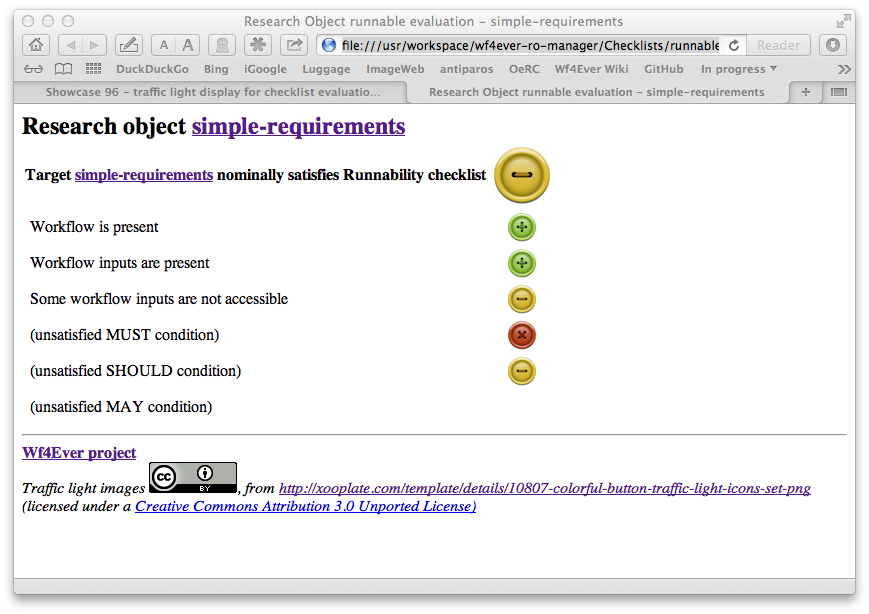
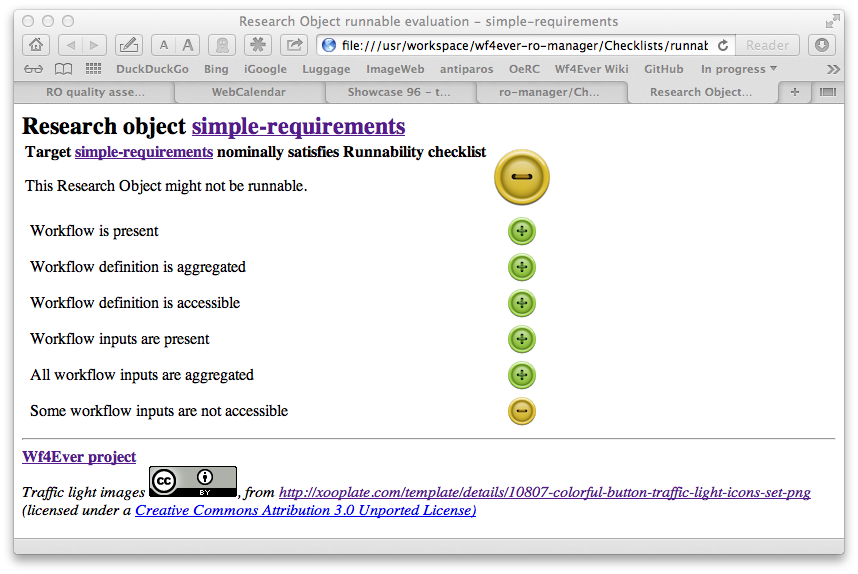
Update mockup data and scripts

Changed region(s): [[0.0, 0.0, 1.0, 0.9477]]

diff --git a/Checklists/runnable-wf-trafficlight/mockup.html b/Checklists/runnable-wf-trafficlight/mockup.html
@@ -31,7 +31,7 @@
       <div class="body">
         <table>
           <tr>
-            <th colspan="2">Target <span class="target"><a href="http://sandbox.wf4ever-project.org/rodl/ROs/simple-requirements/">simple-requirements</a></span> nominally satisfies Runnability checklist</th>
+            <th colspan="2">Target <span class="target"><a href="http://sandbox.wf4ever-project.org/rodl/ROs/simple-requirements/">simple-requirements</a></span> nominally satisfies Runnability checklist<p>This Research Object might not be runnable.</p></th>
             <th class="trafficlight large amber"><div/></th>
           </tr>
           <tr>
@@ -41,7 +41,22 @@
           </tr>
           <tr>
             <td></td>
+            <td>Workflow definition is aggregated</td>
+            <td class="trafficlight small green"><div/></td>
+          </tr>
+          <tr>
+            <td></td>
+            <td>Workflow definition is accessible</td>
+            <td class="trafficlight small green"><div/></td>
+          </tr>
+          <tr>
+            <td></td>
             <td>Workflow inputs are present</td>
+            <td class="trafficlight small green"><div/></td>
+          </tr>
+          <tr>
+            <td></td>
+            <td>All workflow inputs are aggregated</td>
             <td class="trafficlight small green"><div/></td>
           </tr>
           <tr>
@@ -49,6 +64,7 @@
             <td>Some workflow inputs are not accessible</td>
             <td class="trafficlight small amber"><div/></td>
           </tr>
+          <!--
           <tr>
             <td></td>
             <td>(unsatisfied MUST condition)</td>
@@ -64,6 +80,7 @@
             <td>(unsatisfied MAY condition)</td>
             <td class="trafficlight small"><div/></td>
           </tr>
+          -->
         </table>
       </div>
 

diff --git a/Checklists/runnable-wf-trafficlight/css/checklist.css b/Checklists/runnable-wf-trafficlight/css/checklist.css
@@ -3,6 +3,16 @@
     font-size: x-large;
 }
 
+th {
+    font-weight: bold;
+    text-align: left;
+}
+
+th p {
+    font-weight: normal;
+    text-align: left;
+}
+
 .trafficlight {
     text-align: center;
     background-repeat: no-repeat;
